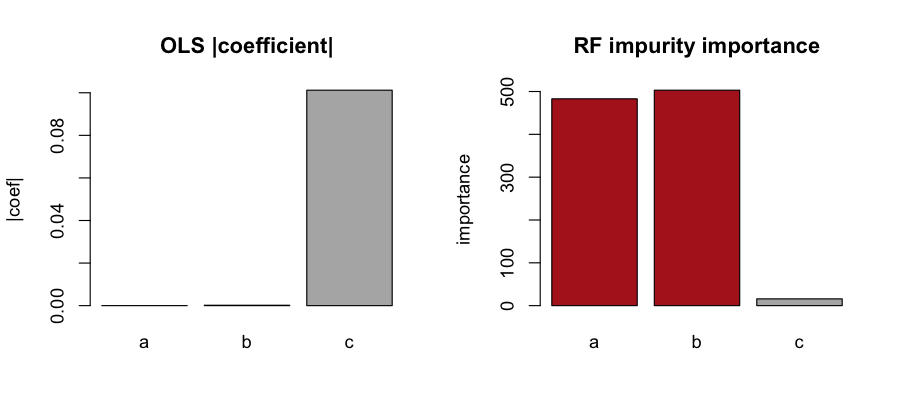
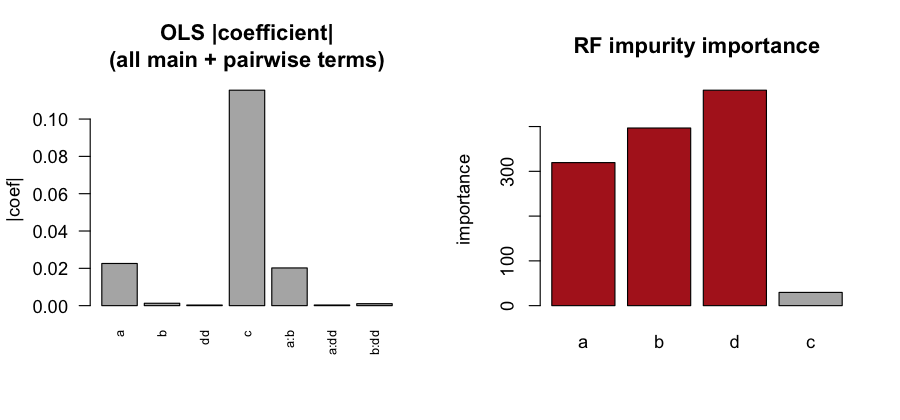
Fix §3 (review comment 3): replace bilinear 2-way parity with 3-way parity that a standard interaction term cannot recover; update experiment, figure, vip numbers, and PDP/checkerboard text

diff --git a/paper/impurity-importance.tex b/paper/impurity-importance.tex
@@ -129,30 +129,39 @@ for linear effects, but ``how much more'' is not comparable to a coefficient.
 \section{Interactions are charged to the interacting variables}
 \label{sec:interactions}
 
-Data: a pure parity interaction with no marginal effects,
+Data: a pure three-way parity interaction with no marginal or pairwise effects,
 \[
-  y = c/10 + \big((a + b) \bmod 2\big), \qquad a,b,c \in \{0,1\}, \quad n = 10000.
+  y = c/10 + \big((a + b + d) \bmod 2\big), \qquad a,b,d,c \in \{0,1\}, \quad n = 10000.
 \]
-$a$ and $b$ individually carry no information about $y$; only their parity does.
-$c$ has a small independent effect.
+No single variable among $a,b,d$ carries information about $y$, and neither does
+any \emph{pair} of them --- only the joint parity of all three does. $c$ has a
+small independent effect. (Two-way parity would not do here: for binary inputs
+$(a+b) \bmod 2 = a + b - 2ab$ is exactly bilinear, so an OLS model with an
+$a{\times}b$ term fits it perfectly. Three-way parity is the smallest case a
+\emph{standard} interaction term cannot recover.)
 
 \begin{itemize}[leftmargin=1.4em]
-\item \textbf{OLS} is blind: $R^2 = 0.01$, and the fitted coefficients for $a$
-  and $b$ are exactly 0 (only $c$ survives, coef $\approx 0.10$). A standard
-  $a{\times}b$ product term does not rescue it --- the interaction is non-linear
-  (parity), not the bilinear form OLS interaction terms assume.
-\item \textbf{Random forest} captures it: OOB $R^2 = 0.63$. And the impurity
+\item \textbf{OLS} is blind, and stays blind when given the standard interaction
+  terms: a model with all three variables \emph{and all pairwise products}
+  ($a{\times}b$, $a{\times}d$, $b{\times}d$) still reaches only $R^2 = 0.01$; the
+  fitted main-effect and pairwise-interaction coefficients are ${\approx}0$, and
+  only $c$ survives (coef ${\approx}0.10$). Recovering the signal requires the
+  full three-way product $a{\times}b{\times}d$, which one would rarely add
+  unprompted.
+\item \textbf{Random forest} captures it: OOB $R^2 = 0.73$. And the impurity
   importance loads almost entirely on the interacting variables:
-  $\mathrm{vip}(a) = 483$, $\mathrm{vip}(b) = 503$, $\mathrm{vip}(c) = 16$
-  (Fig.~\ref{fig:interaction}). The interaction variables outrank the one
-  variable with a genuine marginal effect by ${\sim}30\times$.
+  $\mathrm{vip}(a){=}346$, $\mathrm{vip}(b){=}422$, $\mathrm{vip}(d){=}432$,
+  $\mathrm{vip}(c){=}30$ (Fig.~\ref{fig:interaction}). The interacting variables
+  outrank the one variable with a genuine marginal effect by an order of
+  magnitude.
 \end{itemize}
 
 \begin{figure}[htb]
 \centering
 \includegraphics[width=0.85\textwidth]{fig2_interaction.png}
-\caption{Same data, two views. OLS assigns $a,b$ zero coefficient; RF impurity
-importance ranks them highest.}
+\caption{Same data, two views. OLS with all main and pairwise terms assigns
+$a,b,d$ (and every pairwise product) essentially zero coefficient, seeing only
+$c$; RF impurity importance ranks the three interacting variables highest.}
 \label{fig:interaction}
 \end{figure}
 
@@ -262,10 +271,13 @@ wide/heavy-tailed distribution.'' The measure alone cannot say which.
 \item \textbf{Disambiguate with partial-dependence plots.} PDPs~\cite{friedman2001}
   recover exactly what importance discards: in Section~\ref{sec:confound} the skewed-feature
   model's PDPs are straight lines while the non-linear model's curve --- same
-  importances, different shapes. PDPs also expose the checkerboard signature of
-  the Section~\ref{sec:interactions} interaction that per-feature importance
-  flattens. Curvature in a PDP is a concrete cue to add a polynomial or
-  interaction term back into an interpretable model.
+  importances, different shapes. For the Section~\ref{sec:interactions}
+  interaction, a one- or two-way PDP among $a,b,d$ is flat --- the parity pattern
+  only appears in the full three-way view --- which is itself the tell that the
+  effect is a higher-order interaction that per-feature importance has flattened.
+  Curvature (or a suspiciously flat low-order PDP over a high-importance variable)
+  is a concrete cue to add a polynomial or interaction term back into an
+  interpretable model.
 \item \textbf{\code{impurity\_corrected} fixes a different problem.} It removes
   the bias toward null / high-cardinality features (use it --- it is the right
   default), but it does not make importances scale-comparable across real